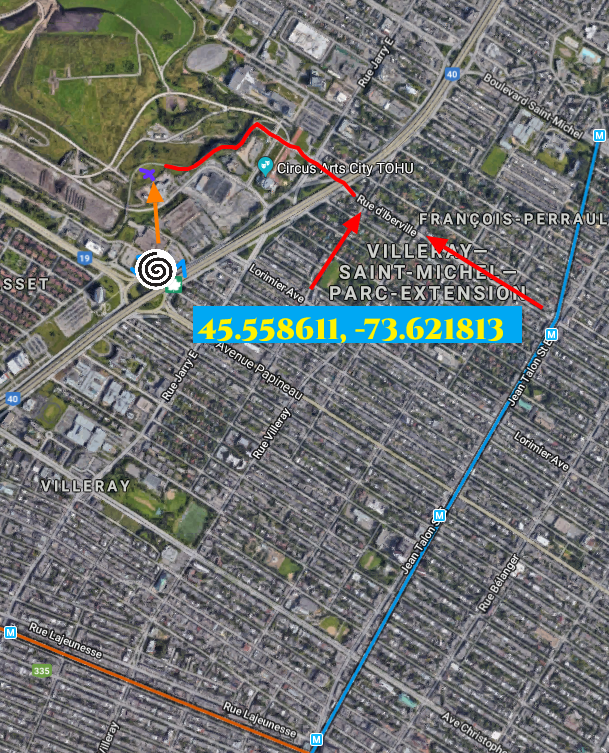
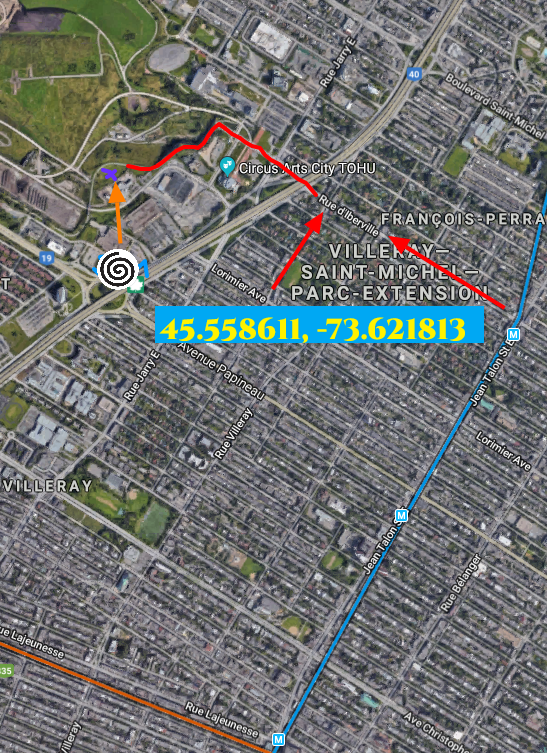
add map

diff --git a/index.html b/index.html
@@ -53,13 +53,13 @@
       <a href="#" class="close">&times;</a>
         <div id="defaultWindow" class="scrollable">
         <h2>Important info for the OVERGROUND Fundraiser</h2>
+        <a>Read through all Health & Safety guidelines before seeing location ☟</a>
         <p>Masks are <i>required</i> - We will have volunteers reminding attendees to keep their masks on and distributing masks to those without</p>
         <p>Please maintain distance while dancing - We will have markings on the ground to help determine distance</p>
         <p>Hand sanitizer will be available at the info table</p>
         <p>Please bring water bottles - We will have some water available for refill, and some labelled cups for people to use during the event</p>
         <p>Please bring hats and sunscreen - There is limited shade in the park</p>
         <p>In order for the event to stay running, social distancing rules must be respected - <em>We can’t give the cops any excuse to shut us down!</em></p>
-        <p>Check back here for the location on June 26th!</p>
         <h3>Organizations YOU are supporting (scroll☟)</h3>
         <div style="text-align: left">
           <h3><a href="https://headandhands.ca/">Head & Hands</a></h3>
@@ -77,6 +77,15 @@
         </div>
         <p style="font-size: 14px"><i>To make your donation, please send an Interac e-transfer to beaubien365@gmail.com (autodeposit enabled)</i></p>
         <p style="font-size: 14px"><i>To maintain full transparency, all finances and donation receipts will be shared here after the event</i></p>
+        <a style="font-size: 14px">You must agree to respect the safety guidelines to see the location of this event (wear a mask!)</a>
+        <br>
+        <br>
+        <button type="button" id="agreeButton"> I agree to follow the safety guidelines</button>
+      </div>
+      <div id="defaultMapWindow">
+        <iframe id="googleMap" src="https://www.google.com/maps/embed?pb=!1m18!1m12!1m3!1d1396.7938530273275!2d-73.62290734171575!3d45.55861887280323!2m3!1f0!2f0!3f0!3m2!1i1024!2i768!4f13.1!3m3!1m2!1s0x0%3A0x0!2zNDXCsDMzJzMxLjAiTiA3M8KwMzcnMTguNSJX!5e0!3m2!1sen!2sca!4v1593110414329!5m2!1sen!2sca" width="100%" height="450" frameborder="0" style="border:0;" allowfullscreen="" aria-hidden="false" tabindex="0"></iframe>
+        <img src="overground-map.png" id="pngMap" width="100%">
+        <p id="mapText">Or use <a href="https://goo.gl/maps/TnJsZz7Zvd9JYano6">Google Maps</a> to direct you. But we recommend crossing the 40 at Iberville!</p>
       </div>
     </div>
     <div id="defaultImageContainer" class="container draggable">

diff --git a/stylesheet.css b/stylesheet.css
@@ -73,12 +73,27 @@ input[type=submit]:hover{
 }
 #defaultWindow {
   height: 100%;
+  margin-top: -10px;
 }
 #defaultImageWindow {
   height: 100%;
   width: 100%;
   color: white;
   font-size: 18px;
+}
+#agreeButton {
+  background-color: #009EE0;
+  border: 1px;
+  border-radius: 6px;
+  text-align: center;
+  color: #e0d215;
+  padding: 5px;
+}
+#defaultMapWindow {
+  display: none;
+}
+#googleMap {
+  display: none;
 }
 #posterContainer {
   height: 500px;
@@ -232,6 +247,8 @@ input[type=submit]:hover{
     display: block;
     padding-left: 25px;
     padding-right: 25px;
+    padding-bottom: 10px;
+    padding-top: 10px;
     height: 76%;
     width: 86%;
     top: 10%;
@@ -333,7 +350,7 @@ input[type=submit]:hover{
   .linkColumn {
     float: left;
     display: table-cell;
-    font-size: 18px;
+    font-size: 15px;
   }
   .linkColumn:hover {
     color: #0088c1;

diff --git a/script.js b/script.js
@@ -33,9 +33,12 @@ $(function() {
 			}
 			event.preventDefault();
 		});
+		$('#agreeButton').click(function(event) {
+			$('#defaultWindow').hide();
+			$('#defaultMapWindow').show();
+		});
 
-
-		if (screen.width > 1000) {
+		if (screen.width > 800) {
 		$('.posterRow').click(function(event) {
 			var imageSrc = $(this).find('img').attr('src').replace(/-thumb/, '');
 			console.log(imageSrc);
@@ -46,7 +49,9 @@ $(function() {
 		$('#expandPosterWindow').click(function(event) {
 			$('#expandPosterWindow').hide();
 		});
-
+		$('#pngMap').hide();
+		$('#mapText').hide();
+		$('#googleMap').show();
 		$('.draggable').draggable({
 			start: function() {
 			},
